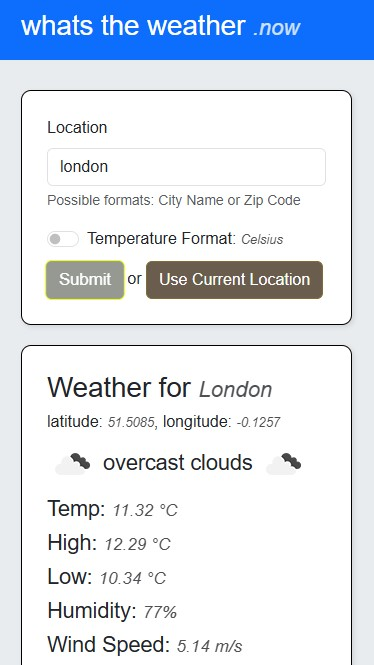
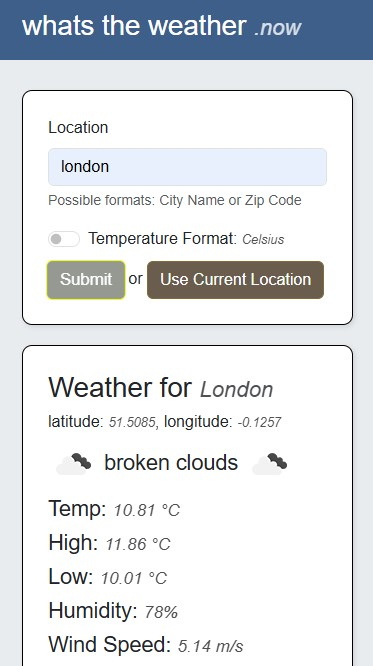
nav bar styling

diff --git a/index.html b/index.html
@@ -41,7 +41,7 @@
         transform: scale(1.05);
       }
       header {
-        background-color: #0d6efd;
+        background-color: #3E5F8A;
         color: white;
         margin-bottom: 20px;
         padding: 10px;
